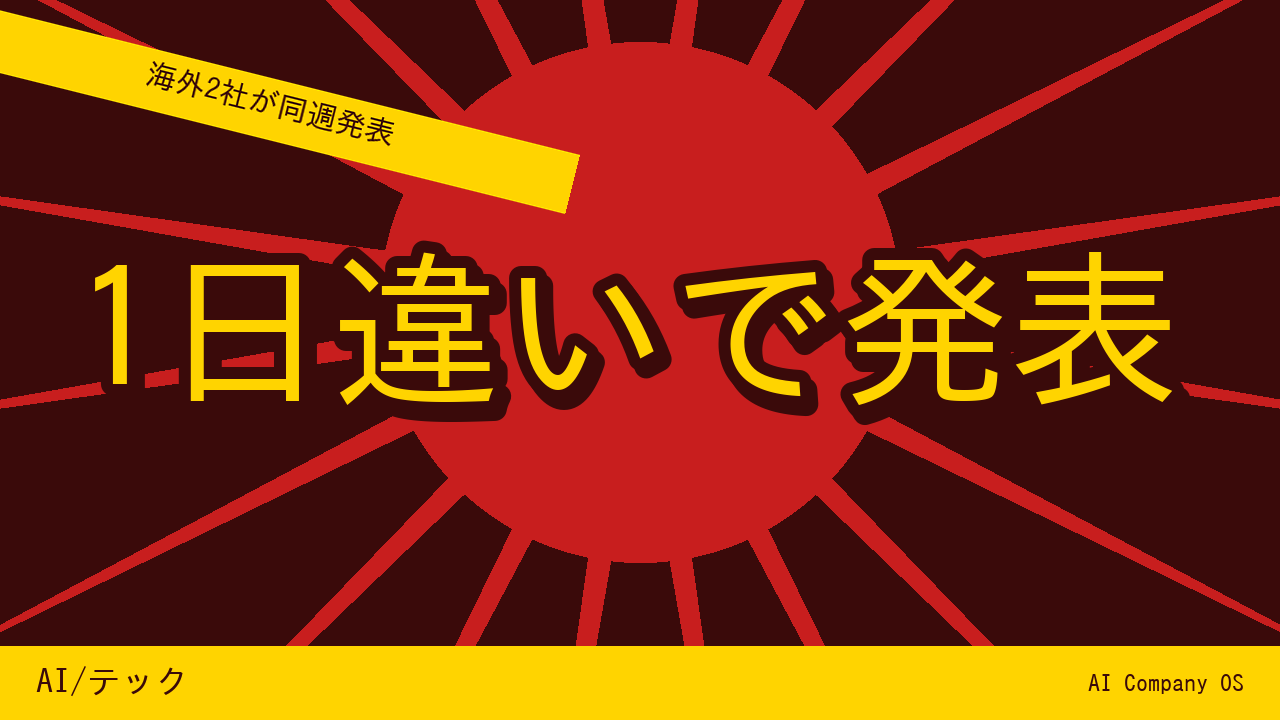
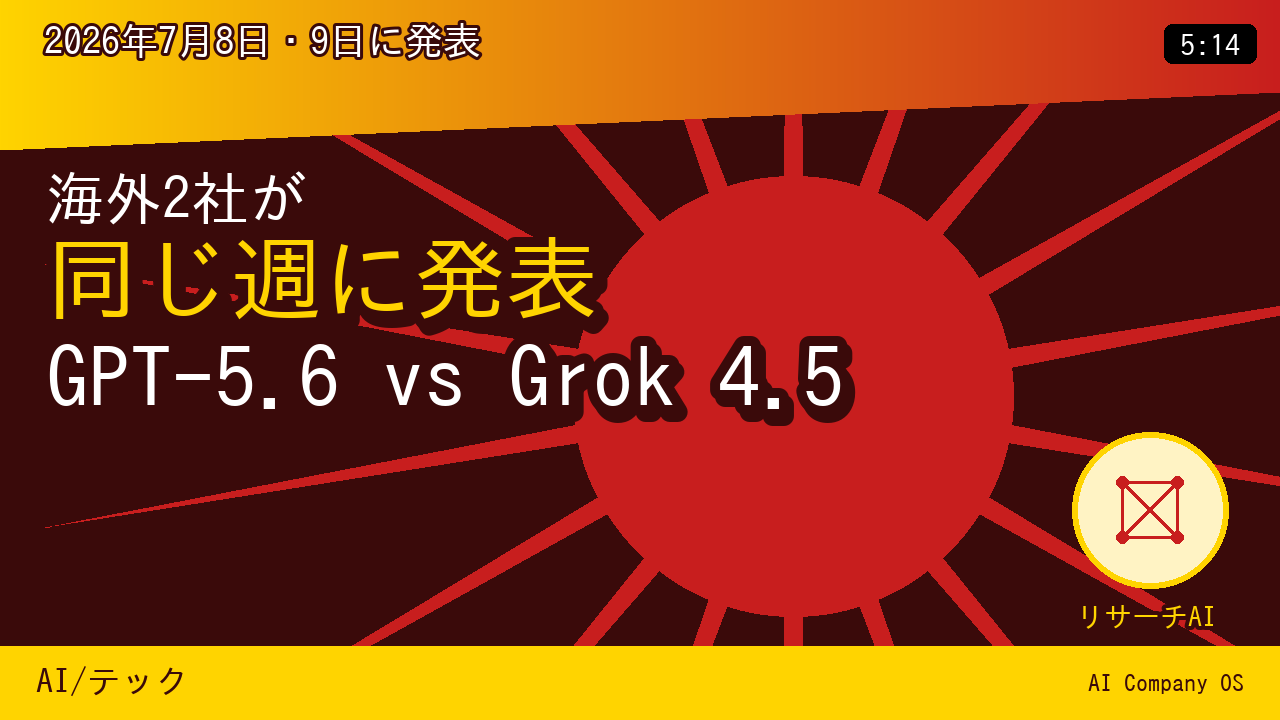
feat: 参考サムネイルのレイアウトを再現するstyle "hype" を追加
上部の斜め帯バナー・3階層見出し・再生時間バッジ・人物枠というレイアウト構造を、
実在人物の写真や誇張表現を使わずに再現。日付・再生時間は実データ、人物枠は
既存のAI対話ペルソナ名(リサーチAI)を円形バッジで表示する。テーマ24〜26に適用。

diff --git a/ai-company-os/scripts/build_thumbnail.py b/ai-company-os/scripts/build_thumbnail.py
@@ -147,8 +147,115 @@ def draw_ribbon(draw, text, f, pal, corner="top-left"):
     return rotated
 
 
+def draw_top_banner(img, draw, pal, text):
+    """参考例(オレンジ→赤グラデーションの斜めカット帯)を模した、画面上部の
+    帯バナー。事実の短い要約のみを載せる(誇張・期間限定等の未確認訴求は使わない)。"""
+    h1, h2 = 92, 150
+    grad = Image.new("RGB", (W, h2), pal["accent"])
+    gdraw = ImageDraw.Draw(grad)
+    for x in range(W):
+        t = x / W
+        r = int(pal["accent"][0] * (1 - t) + pal["primary"][0] * t)
+        g = int(pal["accent"][1] * (1 - t) + pal["primary"][1] * t)
+        b = int(pal["accent"][2] * (1 - t) + pal["primary"][2] * t)
+        gdraw.line([(x, 0), (x, h2)], fill=(r, g, b))
+    mask = Image.new("L", (W, h2), 0)
+    mdraw = ImageDraw.Draw(mask)
+    mdraw.polygon([(0, 0), (W, 0), (W, h1), (0, h2)], fill=255)
+    img.paste(grad, (0, 0), mask)
+    f = font(38)
+    tw, th = _text_size(draw, text, f, stroke_width=3)
+    draw.text((44, (h1 - th) // 2 - 4), text, font=f, fill=(255, 255, 255),
+               stroke_width=3, stroke_fill=pal["primary_dark"])
+
+
+def draw_duration_badge(draw, text, pal):
+    """YouTubeの動画時間オーバーレイを模した、右下の角丸バッジ。実際の動画尺
+    (dialogue_audio.wav由来の実測値)のみを表示し、架空の数字は使わない。"""
+    f = font(30)
+    tw, th = _text_size(draw, text, f)
+    pad_x, pad_y = 16, 8
+    box = [W - tw - pad_x * 2 - 24, 24, W - 24, 24 + th + pad_y * 2]
+    rounded_rect(draw, box, radius=8, fill=(0, 0, 0))
+    draw.text((box[0] + pad_x, box[1] + pad_y - 2), text, font=f, fill=(255, 255, 255))
+
+
+def draw_avatar_badge(draw, cx, cy, r, pal, label):
+    """実在人物の写真の代わりに、円形の抽象アイコン+ペルソナ名ラベルを配置する。
+    dialogue_spec.jsonで既に定義しているAIペルソナ名(例: リサーチAI)を再利用する。"""
+    draw.ellipse([cx - r, cy - r, cx + r, cy + r], fill=pal["card"], outline=pal["accent"], width=6)
+    draw_accent_icon(draw, cx, cy, r * 0.5, pal["primary"])
+    f = font(28)
+    tw, th = _text_size(draw, label, f, stroke_width=4)
+    draw.text((cx - tw // 2, cy + r + 14), label, font=f, fill=pal["base"],
+               stroke_width=4, stroke_fill=pal["primary_dark"])
+
+
+def build_thumbnail_hype(spec: dict, out_path: str):
+    """オーナーが提示した参考サムネイル(上部の斜め帯バナー+複数階層の巨大文字+
+    右下の再生時間バッジ+左下の人物枠)のレイアウトを、実在人物の写真・誇張表現を
+    使わずに再現するスタイル。`style: "hype"` で選択する。"""
+    pal = palette(spec.get("palette_preset", "impact_red"))
+    img = Image.new("RGB", (W, H), pal["primary_dark"])
+    draw = ImageDraw.Draw(img)
+
+    draw_burst(draw, W * 0.62, H * 0.55, 70, 760, pal["primary"], n=18)
+    draw.ellipse([W * 0.62 - 220, H * 0.55 - 220, W * 0.62 + 220, H * 0.55 + 220], fill=pal["primary"])
+
+    banner_text = spec.get("banner_text", "")
+    if banner_text:
+        draw_top_banner(img, draw, pal, banner_text)
+
+    lines = spec["lines"]  # [{"text":..., "color": "base"|"accent"|"white", "size": int}]
+    y = 168
+    color_map = {"base": pal["base"], "accent": pal["accent"], "white": (255, 255, 255),
+                 "dark": pal["primary_dark"]}
+    for ln in lines:
+        size = ln.get("size", 70)
+        f = font(size)
+        text = ln["text"]
+        max_w = W - 90
+        while True:
+            tw, th = _text_size(draw, text, f, stroke_width=10)
+            if tw <= max_w or size <= 40:
+                break
+            size -= 4
+            f = font(size)
+        fill = color_map.get(ln.get("color", "white"), (255, 255, 255))
+        x = 46
+        draw.text((x + 5, y + 7), text, font=f, fill=pal["primary_dark"],
+                   stroke_width=10, stroke_fill=pal["primary_dark"])
+        draw.text((x, y), text, font=f, fill=fill, stroke_width=10, stroke_fill=pal["primary_dark"])
+        y += int(size * 1.12)
+
+    duration = spec.get("duration_badge")
+    if duration:
+        draw_duration_badge(draw, duration, pal)
+
+    avatar_label = spec.get("avatar_label")
+    if avatar_label:
+        draw_avatar_badge(draw, W - 130, H - 210, 78, pal, avatar_label)
+
+    band_h = 74
+    draw.rectangle([0, H - band_h, W, H], fill=pal["accent"])
+    tag = spec.get("tag", "")
+    footer = spec.get("footer", "AI Company OS")
+    tag_font = font(34)
+    draw.text((36, H - band_h + 18), tag, font=tag_font, fill=pal["primary_dark"])
+    footer_font = font(24)
+    fw, _fh = _text_size(draw, footer, footer_font)
+    draw.text((W - fw - 36, H - band_h + 24), footer, font=footer_font, fill=pal["primary_dark"])
+
+    Path(out_path).parent.mkdir(parents=True, exist_ok=True)
+    img.save(out_path, "PNG")
+    return out_path
+
+
 def build_thumbnail(spec: dict, out_path: str):
-    style = spec.get("style", "standard")  # "standard" or "impact"
+    style = spec.get("style", "standard")  # "standard" / "impact" / "hype"
+    if style == "hype":
+        return build_thumbnail_hype(spec, out_path)
+
     pal = palette(spec.get("palette_preset", "navy_gold"))
     img = Image.new("RGB", (W, H), pal["primary_dark"])
     draw = ImageDraw.Draw(img)
@@ -249,7 +356,27 @@ def self_test():
     img2 = Image.open(out2)
     assert img2.size == (W, H), f"unexpected size: {img2.size}"
     img2.resize((168, 94)).save("/tmp/thumbnail_self_test_impact_small.png")
-    print("SELF-TEST PASSED:", out, out2)
+
+    sample_hype = {
+        "palette_preset": "impact_red",
+        "style": "hype",
+        "banner_text": "2026年7月8日・9日に発表",
+        "lines": [
+            {"text": "海外2社が", "color": "white", "size": 58},
+            {"text": "同じ週に発表", "color": "accent", "size": 92},
+            {"text": "GPT-5.6 vs Grok 4.5", "color": "white", "size": 84},
+        ],
+        "duration_badge": "5:14",
+        "avatar_label": "リサーチAI",
+        "tag": "AI/テック",
+        "footer": "AI Company OS",
+    }
+    out3 = "/tmp/thumbnail_self_test_hype.png"
+    build_thumbnail(sample_hype, out3)
+    img3 = Image.open(out3)
+    assert img3.size == (W, H), f"unexpected size: {img3.size}"
+    img3.resize((168, 94)).save("/tmp/thumbnail_self_test_hype_small.png")
+    print("SELF-TEST PASSED:", out, out2, out3)
 
 
 def main():

diff --git a/ai-company-os/docs/14_YouTube_Thumbnail.md b/ai-company-os/docs/14_YouTube_Thumbnail.md
@@ -51,6 +51,23 @@
 現時点では生成していない**(下記「未解決の判断事項」を参照)。放射状バースト
 (漫画的な衝撃線)を、表情の代わりに視線を集める抽象図形として採用している。
 
+### `style: "hype"`(2026-07-24追加、参考例のレイアウト再現)
+
+オーナーから「同じものを作って」と、参考サムネイルのレイアウト再現を明示的に
+指示された。実在人物の写真・誇張表現(「全米が泣いた」等)を使わず、レイアウトの
+技法だけを忠実に再現している:
+
+- 上部の斜めカット・グラデーション帯バナー(`draw_top_banner`): 参考例の
+  「期間限定で使える」の位置に、**事実の日付**を表示する
+- 3階層見出し(`lines`): 白 → アクセント色(強調) → 白(ブランド/トピック名)の
+  3段階。参考例の「全米が泣いた!」→「最強のAIモデル復活」→「Claude Fable 5」
+  の階層構造に対応
+- 右上の再生時間バッジ(`draw_duration_badge`): 参考例の「11:32」に相当。
+  **実際の`dialogue_audio.wav`の長さ**を表示し、架空の数字は使わない
+- 右下の人物枠(`draw_avatar_badge`): 参考例のホスト写真の代わりに、円形の
+  抽象アイコン + 既存のAI対話ペルソナ名(`dialogue_spec.json`で定義済みの
+  「リサーチAI」等)を表示する
+
 ### 未解決の判断事項(オーナー確認待ち)
 
 - **AI生成の顔の採用**: 実在人物の写真は使わない方針(`AGENTS.md`)は維持しつつ、

diff --git a/ai-company-os/assets/2026-07-23_meta-muse-spark-launch/thumbnail_brief.md b/ai-company-os/assets/2026-07-23_meta-muse-spark-launch/thumbnail_brief.md
@@ -32,6 +32,20 @@
   バーストで視覚的インパクトを出している(AI生成の架空の顔を使う案は
   画像生成ツールの導入可否も含めオーナー確認待ち)
 
+## 2026-07-24再更新: オーナー提示の参考例レイアウトを再現(`style: "hype"`)
+
+- オーナーから提示された参考サムネイル(上部の斜め帯バナー・複数階層の巨大文字・
+  右下の再生時間バッジ・人物枠)のレイアウトを、実在人物の写真・誇張表現を
+  使わずに再現する新スタイル`hype`を追加し、本テーマにも適用した
+- 上部帯バナー: 「2026年7月9日発表」(参考例の「期間限定で使える」に相当する
+  位置だが、事実の日付のみを表示)
+- 3階層見出し: 「3年ぶりに」(白)/「ザッカーバーグが投稿」(黄)/
+  「Meta Muse Spark 1.1」(白・ブランド名)
+- 再生時間バッジ: 「5:42」(`dialogue_audio.wav`の実測値。参考例の「11:32」と
+  同じ役割だが架空の数字ではなく実データ)
+- 人物枠: 実在人物の写真の代わりに、既存のAI対話ペルソナ名「リサーチAI」
+  (`dialogue_spec.json`で定義済み)を円形バッジで表示
+
 ## 検品チェック
 
 - [x] 1280×720で生成されている

diff --git a/ai-company-os/assets/2026-07-23_gemini-flash-cyber-launch/thumbnail_brief.md b/ai-company-os/assets/2026-07-23_gemini-flash-cyber-launch/thumbnail_brief.md
@@ -31,6 +31,17 @@
   バーストで視覚的インパクトを出している(AI生成の架空の顔を使う案は
   画像生成ツールの導入可否も含めオーナー確認待ち)
 
+## 2026-07-24再更新: オーナー提示の参考例レイアウトを再現(`style: "hype"`)
+
+- オーナーから提示された参考サムネイルのレイアウトを、実在人物の写真・
+  誇張表現を使わずに再現する新スタイル`hype`を追加し、本テーマにも適用した
+- 上部帯バナー: 「2026年7月21日発表」(事実の日付のみ)
+- 3階層見出し: 「使えるのは」(白)/「政府機関だけ」(黄)/
+  「Gemini新モデル3種」(白・ブランド名)
+- 再生時間バッジ: 「5:21」(`dialogue_audio.wav`の実測値)
+- 人物枠: 実在人物の写真の代わりに、既存のAI対話ペルソナ名「リサーチAI」を
+  円形バッジで表示
+
 ## 検品チェック
 
 - [x] 1280×720で生成されている

diff --git a/ai-company-os/assets/2026-07-24_gpt56-grok45-launch-race/thumbnail_brief.md b/ai-company-os/assets/2026-07-24_gpt56-grok45-launch-race/thumbnail_brief.md
@@ -31,6 +31,17 @@
   バーストで視覚的インパクトを出している(AI生成の架空の顔を使う案は
   画像生成ツールの導入可否も含めオーナー確認待ち)
 
+## 2026-07-24再更新: オーナー提示の参考例レイアウトを再現(`style: "hype"`)
+
+- オーナーから提示された参考サムネイルのレイアウトを、実在人物の写真・
+  誇張表現を使わずに再現する新スタイル`hype`を追加し、本テーマにも適用した
+- 上部帯バナー: 「2026年7月8日・9日に発表」(事実の日付のみ)
+- 3階層見出し: 「海外2社が」(白)/「同じ週に発表」(黄)/
+  「GPT-5.6 vs Grok 4.5」(白・ブランド名)
+- 再生時間バッジ: 「5:14」(`dialogue_audio.wav`の実測値)
+- 人物枠: 実在人物の写真の代わりに、既存のAI対話ペルソナ名「リサーチAI」を
+  円形バッジで表示
+
 ## 検品チェック
 
 - [x] 1280×720で生成されている